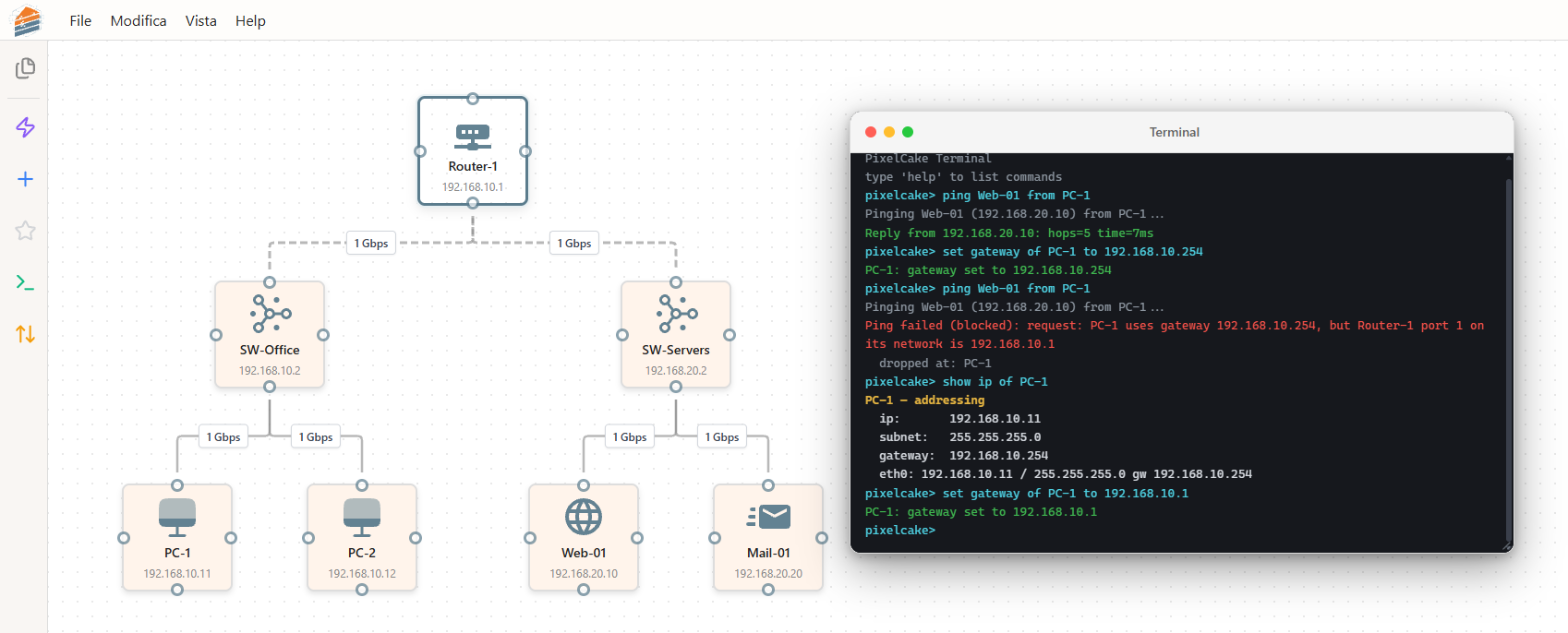
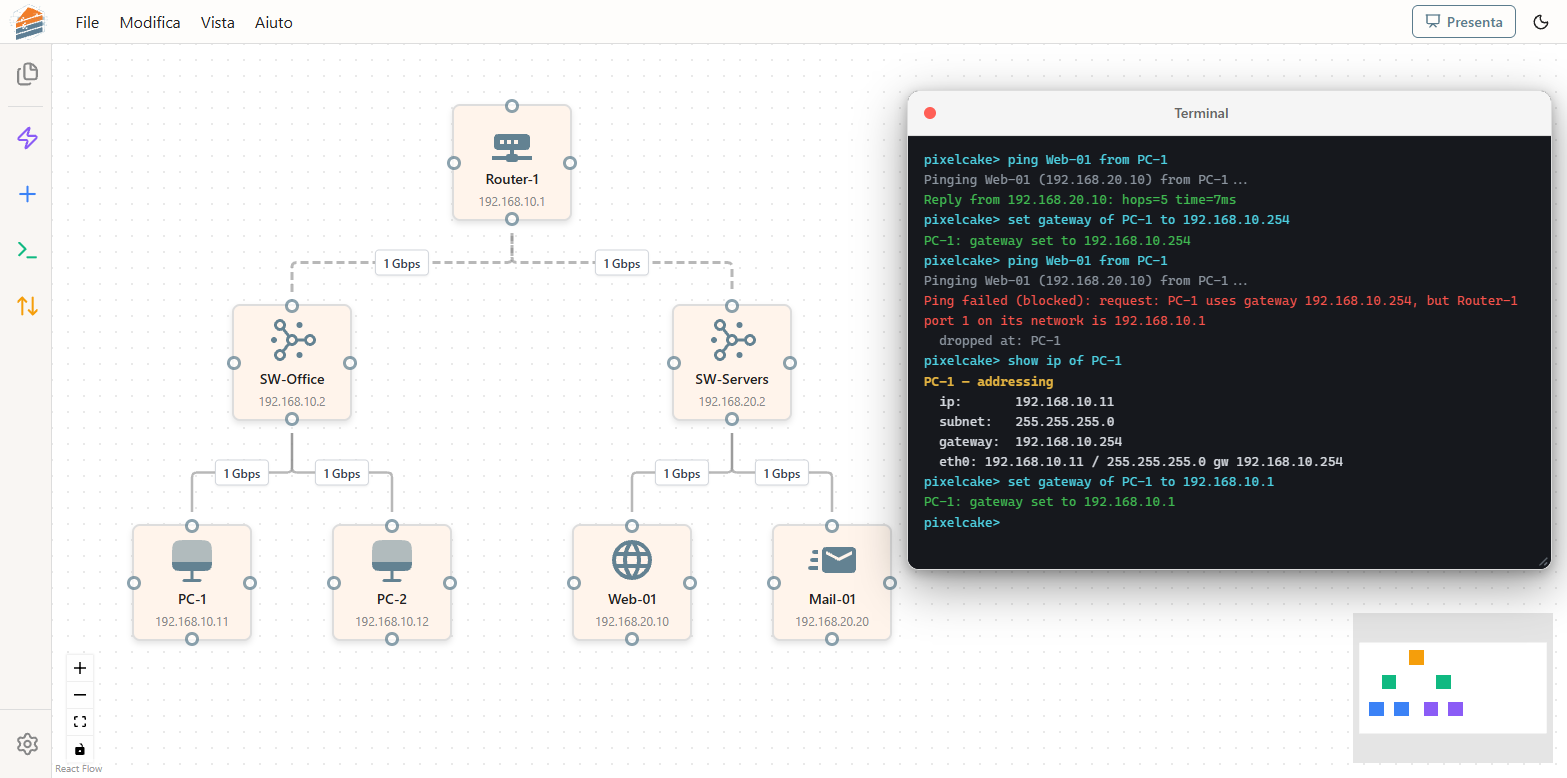
Documents and screenshots for presentation mode and failures
README: presentation mode, what happens when something breaks, the three
sample networks, the limits of backup routes. The screenshot of the
terminal showed a menu that no longer exists: taken again, with one of
presentation mode next to it. Architecture, changelog and the terminal
reference follow.

diff --git a/README.md b/README.md
@@ -14,10 +14,13 @@ PixelCake is a browser-based designer for small networks. You draw the network, 
 - **Configure.** Addresses on every router port and network card, static routes, VLANs port by port (access and trunk), firewall zones and ordered rules.
 - **Test.** Ping, web, download and email flows are followed hop by hop and animated on the drawing. When a flow fails, the packet stops at the device that drops it and the reason names the port, the route or the rule.
 - **Type.** A built-in terminal with a small vendor-neutral command language: `ping`, `trace`, `browse`, `show routes`, `add route`, `add rule`, `interface 3 access 10` and more. Commands that change the network edit the same drawing you see.
+- **Present.** A presentation mode puts the editing tools away. Click two devices to ask a question, watch the packet go, read the answer hop by hop. Then break something, a device or a cable, and see at once whether the traffic finds another way and which exchanges between end devices stop working. Nothing in the drawing changes.
 - **Save.** A project, with all its boards, is kept in the browser while you work and saved as a single `.pixelcake.json` file that you can open again or pass on. There is no server and no account.
 - **Export.** The topology as YAML, which can be loaded back. A Terraform-style export exists only as a sketch.
 
 The interface is in Italian. The terminal language is English.
+
+Three sample networks are bundled (Aggiungi → Topologie): a small office with two subnets and a router; a site with VLANs, a DMZ and a firewall; and two sites joined by a main line and a backup line, made for trying failures.
 
 ### The terminal
 
@@ -74,6 +77,19 @@ The engine carries a packet the way the network would. At every device that hand
 
 A routing loop, an address used twice, a next hop nobody has, a trunk towards a device that expects no tag: each stops the packet with its own explanation.
 
+### What happens if this breaks
+
+![Presentation mode on the sample with two sites: the main line between the two routers is cut, the ping from the branch still reaches the file server through the backup router, and the panel counts twelve exchanges that take another way and none that stop](docs/presentation.png)
+
+In presentation mode a click on a device or on a cable takes it as broken. The drawing is not edited: the failure is a list handed to the engine next to the network, and it is gone when the presentation ends. The question on screen is asked again at once.
+
+- A device that is down sends and takes nothing; a cable that is cut carries nothing. The reason of a failed answer names them: `SW-Core is down`, `link R-Sede–R-Filiale is down`.
+- Between switches the engine takes the shortest way that still works, so a ring or a second cable carries the traffic.
+- A router, or a host with two network cards, stops using a route when the interface it leaves by has no working cable left, and takes the next route for that destination: a backup route written after the main one. The answer says so in a note.
+- The panel then counts, over every pair of end devices: how many exchanges stop, how many take another way, how many do not notice. A click on one of them asks that question.
+
+The terminal sees the same failures while the presentation lasts, so a `ping` typed there agrees with the picture.
+
 Every link is attached to a port or a network card at both ends, chosen automatically when you draw it and editable afterwards.
 
 When the engine cannot verify something, it says so in a note instead of answering "it works": a router whose ports have no address (it still lets traffic through, so drawings made before routing existed keep working), the Internet symbol, NAT. The engine is plain TypeScript with no UI dependencies, in [frontend/src/engine](frontend/src/engine). The same network always gives the same answer.
@@ -82,6 +98,8 @@ When the engine cannot verify something, it says so in a note instead of answeri
 
 - **It is not a packet-level simulator.** There is no ARP, MAC learning, DHCP, DNS or dynamic routing. Ping times are derived from the number of hops.
 - **Routes are static.** A router knows the networks it is attached to and the routes you wrote. Router sub-interfaces are not modelled: routing between VLANs needs a router port in each.
+- **A backup route takes over only when the line is seen to be down.** That is, when the interface of the main route has no working cable left. A next hop that dies behind a switch is not noticed, as with a plain static route on real hardware, and the traffic is lost there. A host has one gateway per network card: there is no gateway redundancy protocol.
+- **Simulated failures are not saved.** They belong to the presentation and are gone when it ends.
 - **Firewall rules know three services**: ping, web and email. There are no port numbers, and traffic addressed to the firewall itself is not filtered.
 - **Spanning tree is not simulated.** A drawing with redundant links is walked without loops, but no port is blocked.
 - **NAT is not applied.** It can be ticked on a router port, and a trace that crosses that port says addresses were not translated.
@@ -111,7 +129,7 @@ The app's icons are bundled with it. Only an icon name typed by hand in a custom
 
 ```bash
 cd frontend
-pnpm test:run      # 999 tests: engine, terminal, project files, import/export, screens
+pnpm test:run      # 1252 tests: engine, terminal, project files, import/export, screens
 pnpm type-check
 pnpm lint
 pnpm build
@@ -121,7 +139,7 @@ GitHub Actions runs the same four steps on every push.
 
 ```
 frontend/src/
-  engine/       routing, VLANs, firewall and flow models (pure TypeScript)
+  engine/       routing, VLANs, firewall, flow models, failures (pure TypeScript)
   terminal/     command parser and executor
   components/   canvas, panels, windows
   store/        application state (Zustand, persisted in the browser)
@@ -139,10 +157,9 @@ Today the first two exist in a basic form and the third is only a sketch. The st
 
 ## What is next
 
-1. A presentation mode: the drawing without the editing tools, to explain a network to someone, with "what stops working if this goes down".
-2. Export the drawing as an image.
-3. Undo and redo.
-4. In the engine: NAT, DHCP and DNS, then spanning tree.
+1. Export the drawing as an image.
+2. Undo and redo.
+3. In the engine: NAT, DHCP and DNS, then spanning tree.
 
 ## License
 

diff --git a/ARCHITECTURE.md b/ARCHITECTURE.md
@@ -25,8 +25,16 @@ All stores use Zustand. There is no server: what must survive a reload is kept i
 - LocalStorage key: `pixelcake-project-v1`
 
 ### simulationStore (`frontend/src/store/simulationStore.ts`)
-- Packet simulation state (isRunning, path, currentStep)
-- Flow model selection (ping, email, web, download)
+- The packet travelling on the canvas. Not persisted
+- `startSimulation(path, flowModel, links?)` starts a run and returns its `runId`; a new start replaces the run in progress. `path` is the devices to go through, `links` the cable of each stretch as the engine took it (two devices can be joined by more than one cable)
+- While it runs: `currentHop`, `activeDeviceId` (the device the packet is stopping on), `currentConnectionId` with its duration and direction
+- `speed` (0.5, 1, 2): set from the presentation bar
+
+### presentationStore (`frontend/src/store/presentationStore.ts`)
+- Presentation mode: `active`, the question (`sourceId`, `targetId`, `flow`), the simulated failures (`failedDevices`, `failedConnections`), the small menu open on the canvas, the way of the answer for the canvas to mark (`route`), whether the panel is open
+- **It never changes the drawing.** A failure is an id in this store, handed to the engine next to the topology. Nothing here is persisted; `exit()` forgets question and failures
+- `enter()` refuses an empty canvas and puts the building tools away (selection, context menu, running packet)
+- `utils/liveTopology.ts` builds the topology every question is asked of (canvas + failures while presenting): the simulation panel, the terminal and the presentation all read it there
 
 ### uiStore (`frontend/src/store/uiStore.ts`)
 - UI state, modal controls (including `newProject`), context menus, the tab the guide opens on (`helpTab`, `openHelp(tab)`)
@@ -47,7 +55,15 @@ All stores use Zustand. There is no server: what must survive a reload is kept i
 - **NetworkDevice** (`frontend/src/components/Canvas/NetworkDevice.tsx`) - Custom node component
 - **CustomEdge** (`frontend/src/components/Canvas/CustomEdge.tsx`) - Custom edge with connection type styling
 - **ParticleEdge** (`frontend/src/components/Canvas/ParticleEdge.tsx`) - Particle flow animation wrapper with CSS offset-path
-- **PacketAnimation** (`frontend/src/components/Canvas/PacketAnimation.tsx`) - Geometric handle calculation for animations
+- **PacketAnimation** (`frontend/src/components/Canvas/PacketAnimation.tsx`) - Moves the packet of a simulation cable by cable and keeps simulationStore up to date; CustomEdge draws it. One run at a time: a new start, a stop or an unmount cancels the run in progress. Timing and the choice of the cable are in `utils/packetTiming.ts`
+
+While presenting, NetworkCanvas makes the drawing read-only (nothing is selected, moved, joined, deleted or pasted; dragging pans), a click on a device or a cable opens the presentation menu, the drawing is fitted to the window, and the view saved with the drawing is not touched. NetworkDevice and CustomEdge mark the ends of the question, a broken device, a cut cable and the way of the answer.
+
+### Presentation (`frontend/src/components/Presentation/`)
+- **PresentationBar** - Takes the place of the menu bar: project and canvases, pace of the packet, terminal, full screen, exit (also Esc)
+- **PresentationPanel** - Question, answer, simulated failures with their effect on the rest of the network, and the way hop by hop. `usePresentationAnswer` works all of it out from the drawing, the question and the failures, marks the way on the canvas and sets the packet off at every change
+- **PresentationMenu** - The menu a click on a device or a cable opens: start here, arrive here, break, repair
+- `utils/presentation.ts` - Pure: the engine's answer turned into what is shown (Italian sentences, rows tied to the animation, exchanges grouped by device). The reasons and notes of the engine are shown as the engine wrote them
 
 ### WelcomeScreen (`frontend/src/components/WelcomeScreen.tsx`)
 - Excalidraw-style minimalist transparent overlay on canvas (NOT popup)
@@ -138,7 +154,19 @@ Modules:
   the Internet symbol, NAT) is reported as a note, never as a silent success.
 - `flows.ts` — request/reply plans per flow model (ping, web, download, email)
   and the service each leg is to a firewall. A reply leg is the return traffic
-  of an allowed flow, sent back to the address the request came from.
+  of an allowed flow, sent back to the address the request came from. The
+  result carries the devices to animate and the cable of each stretch
+  (`animationPath`, `animationLinks`).
+- `failures.ts` — "what if this breaks": a topology can carry `failures`
+  (devices that are down, cables that are cut). `l2.ts` finds nothing
+  travelling through them and goes round when the drawing offers another way;
+  `trace.ts` withdraws a route whose interface has no working cable left
+  (`deadInterfaces`) and takes the next one for that destination, with a note.
+  A network the device is attached to is not looked for elsewhere: the broken
+  link is the answer.
+- `impact.ts` — every exchange between two end devices evaluated with and
+  without the failures, and compared: broken, rerouted (other cables),
+  unchanged. Exchanges that did not work to begin with are not counted.
 - `interfaces.ts` — every link end is attached to one interface of its device
   (a port or a NIC). Owns the binding rules: first free interface on creation,
   migration of old unbound data on load (`normalizeBindings`), cleanup when a

diff --git a/docs/terminal-commands.md b/docs/terminal-commands.md
@@ -61,8 +61,8 @@ iface-setting ::= "up" | "down"
                 | "default"                            (* switch ports: no VLAN of its own *)
                 | "zone" ("trust" | "untrust" | "dmz" | "none")   (* firewall ports *)
 
-route-cmd     ::= "add" "route" network "via" next-hop [["on"] device]
-                | "remove" "route" network [("from" | "on") device]
+route-cmd     ::= "add" ["backup"] "route" network "via" next-hop [["on"] device]
+                | "remove" "route" network ["via" next-hop] [("from" | "on") device]
 network       ::= ipv4 "/" prefix | "default"
 next-hop      ::= ipv4 | device
 
@@ -130,6 +130,37 @@ Verdicts: `error` (an endpoint does not exist or has no usable address),
 `unreachable` (no cables join the two devices), `blocked` (dropped on the
 way: the reason names the device, the port, the route or the rule),
 `success`.
+
+#### Simulated failures
+
+In presentation mode a device or a cable can be taken as broken ("what
+happens if this goes down?"). The drawing is not changed, and the commands of
+the terminal see the same failures for as long as the presentation lasts.
+
+- A device that is down sends and takes nothing; a cable that is cut carries
+  nothing: `SW-Core is down`, `link R-Sede–R-Filiale is down`.
+- Delivery goes round them when the drawing offers another way (a ring of
+  switches, a second cable between two devices).
+- A route whose interface has no working cable left is withdrawn, as a device
+  does when it loses the carrier, and the next route for that destination is
+  taken. Write a backup route after the main one (in the Inspector: a second
+  row for the same network):
+
+  ```text
+  pixelcake> add route 192.168.2.0/24 via 10.0.0.2 on R-Sede
+  pixelcake> add backup route 192.168.2.0/24 via 10.0.1.2 on R-Sede
+  R-Sede: backup route to 192.168.2.0/24 via 10.0.1.2 added
+    used when the interface of the route via 10.0.0.2 has no working link
+  ```
+
+  The trace then carries the note `R-Sede: the route 192.168.2.0/24 via
+  10.0.0.2 is unusable (link R-Sede–R-Filiale is down), the route
+  192.168.2.0/24 via 10.0.1.2 is used instead`. The same holds for two
+  default routes, and for a host with a gateway on each of two network cards.
+- A network the device itself is attached to is not looked for elsewhere: the
+  broken link is the answer.
+- A next hop that dies behind a switch does not take the interface down: the
+  route stays and the traffic is lost there, as with a plain static route.
 
 #### VLANs
 
@@ -209,7 +240,8 @@ Aliases: `sh` → `show` · `ls`, `list` → `show devices` ·
 | `interface <n> default [on] <switch>` | The port has no VLAN of its own any more |
 | `interface <n> zone trust\|untrust\|dmz\|none [on] <firewall>` | Security zone of a firewall port |
 | `add route <network>\|default via <next hop> [on] <device>` | Static route on a router or firewall. The network is written `192.168.30.0/24`; the next hop is an address, or a device with an address on a network the two share. Adding a route to a network that has one replaces its next hop |
-| `remove route <network>\|default [from] <device>` | |
+| `add backup route <network>\|default via <next hop> [on] <device>` | A second route to a network that has one. It is used when the interface of the first has no working link (a port switched off, or a failure simulated in presentation mode). `show routes` marks it `backup` |
+| `remove route <network>\|default [via <next hop>] [from] <device>` | Without `via`, every route to that network; with it, the one through that next hop |
 | `add rule [<position>] allow\|deny [<service>\|any] from <source> to <destination> [on] <firewall>` | Firewall rule, added last or at the given position. Source and destination are `any`, a zone, an address, a network, or a device (stored as its address). No service means any |
 | `remove rule <n> [from] <firewall>` | |
 | `add vlan <id> [to] <device>` / `remove vlan <id> from <device>` | The VLAN list of a device (see *VLANs*) |
@@ -340,14 +372,18 @@ Ping failed (blocked): request: firewall FW-1: no rule matches, zone policy untr
 
 ARP and MAC tables, spanning tree (a drawing with redundant links is walked
 without loops, but no port is blocked), NAT, DHCP, DNS, dynamic routing,
-router sub-interfaces, TCP/UDP ports beyond the three services, link speed
-and ping times (the time printed is derived from the number of hops).
+gateway redundancy (a host has one gateway per network card), router
+sub-interfaces, TCP/UDP ports beyond the three services, link speed and ping
+times (the time printed is derived from the number of hops).
 
 ## Language roadmap
 
 The spec will grow with the engine's capabilities; every extension keeps the
 principles above (verb-first, optional prepositions, neutral vocabulary):
 
-- **Failure analysis** — what stops working when a link or a device goes down
+- **Failures from the terminal** — failures are simulated in presentation
+  mode today, and the terminal sees them; commands to break and repair a
+  device or a link, and to list what stops working, are not in the language
+  yet
 - **More services** — `ssh`, `dns`, and rules by port number
 - **NAT** — `translate`, evaluated by the diagnostics

diff --git a/CHANGELOG.md b/CHANGELOG.md
@@ -15,6 +15,11 @@ and this project adheres to [Semantic Versioning](https://semver.org/spec/v2.0.0
 - **More that did nothing**: the Inspector tab announcing Terraform fields, the terminal's Minimize and Maximize dots, two Terraform fields on custom templates, a click-to-connect mode and two windows nothing opened.
 
 ### Added
+- **Presentation mode** ("Presenta" on the menu bar, or Vista → Modalità presentazione). The editing tools are put away and the drawing can no longer be changed by clicking: a click on a device opens a small menu to start a question there or end it there, the packet goes by itself, and a panel says whether it arrives, through what, and where and why it stops. The way of the answer stays marked on the drawing. The bar has the pace of the packet, the terminal, full screen and the canvases of the project. Esc leaves.
+- **"What happens if this breaks".** In presentation mode a device or a cable can be taken as broken with a click. Nothing in the drawing changes, and the failure is gone when the presentation ends. The question on screen is asked again at once, and the panel counts, over every pair of end devices, how many exchanges stop working, how many take another way and how many do not notice; a click on one of them asks that question. The terminal sees the same failures while the presentation lasts.
+- **Failures in the engine.** A topology can carry devices that are down and cables that are cut. Between switches the shortest way that still works is taken. A router, or a host with two network cards, withdraws a route whose interface has no working cable left and takes the next route for that destination, saying so in a note.
+- **Backup routes.** A second route to a network that has one is its backup: `add backup route <network> via <next hop>` in the terminal, a second row in Inspector → Rotte. Both `show routes` and the Inspector mark it. `remove route <network> via <next hop>` removes one route of several.
+- **A third sample network**, "Due sedi: linea principale e di riserva": two sites joined by a main and a backup line, three switches in a ring. Made for trying failures.
 - **Routing.** Every device forwards by its routing table: the networks its addressed ports or network cards are in, the static routes written on a router or firewall (Inspector → Rotte, or `add route … via …`), and its default gateway. A packet is followed across any number of routers; "no route", an unreachable next hop and a routing loop are reported as such. The way back is checked with its own routes.
 - **Firewall rules.** Ordered rules on a firewall (Inspector → Regole, or `add rule allow|deny <service> from … to …`): the first that matches decides, by service (ping, web, email), source and destination (any, a zone, an address, a network). The zone policy applies when no rule matches.
 - **VLANs port by port.** A switch port is an access port in one VLAN or a trunk carrying several (`interface <n> access|trunk …`). Once a switch has a VLAN on a port, the ports nobody touched are in VLAN 1.
@@ -43,6 +48,7 @@ and this project adheres to [Semantic Versioning](https://semver.org/spec/v2.0.0
   - Subtle 2px track line matching BulkAddDeviceModal design
 
 ### Changed
+- **The packet animation is quicker and can be restarted.** A long exchange took about twenty seconds; cables now take between a third of a second and a second each. Starting a new animation, or stopping one, cancels the one in progress at once. The device the packet is stopping on is ringed.
 - **The engine follows the shortest way that works**, not the shortest on the drawing: a port that is down is gone round when there is another way. End devices no longer carry traffic for others, and a router with addressed ports no longer passes traffic between two devices addressed in one network.
 - **A router with more than one hop to go is checked**, no longer assumed. A router whose ports have no address still lets traffic through, with a note, so drawings made before this change give the answers they gave.
 - **New routers and firewalls start without a gateway**: on a router the gateway is its default route. New devices appear in the middle of the visible canvas.
@@ -60,6 +66,7 @@ and this project adheres to [Semantic Versioning](https://semver.org/spec/v2.0.0
   - Two-part processing: configurable devices (with ports) + standard devices (with NICs)
 
 ### Fixed
+- **The packet travels on the cable the engine took.** Between two devices joined by two cables the animation always ran on the first one drawn, even when the traffic was on the other.
 - Ctrl+V while typing in a field pasted a copy of the selected devices on the canvas; Ctrl+C took over copying text. The canvas shortcuts now leave text alone.
 - A link removed with the Delete key disappeared from the drawing but stayed in the network.
 - Saving any field of a firewall port put the port in the `trust` zone.
